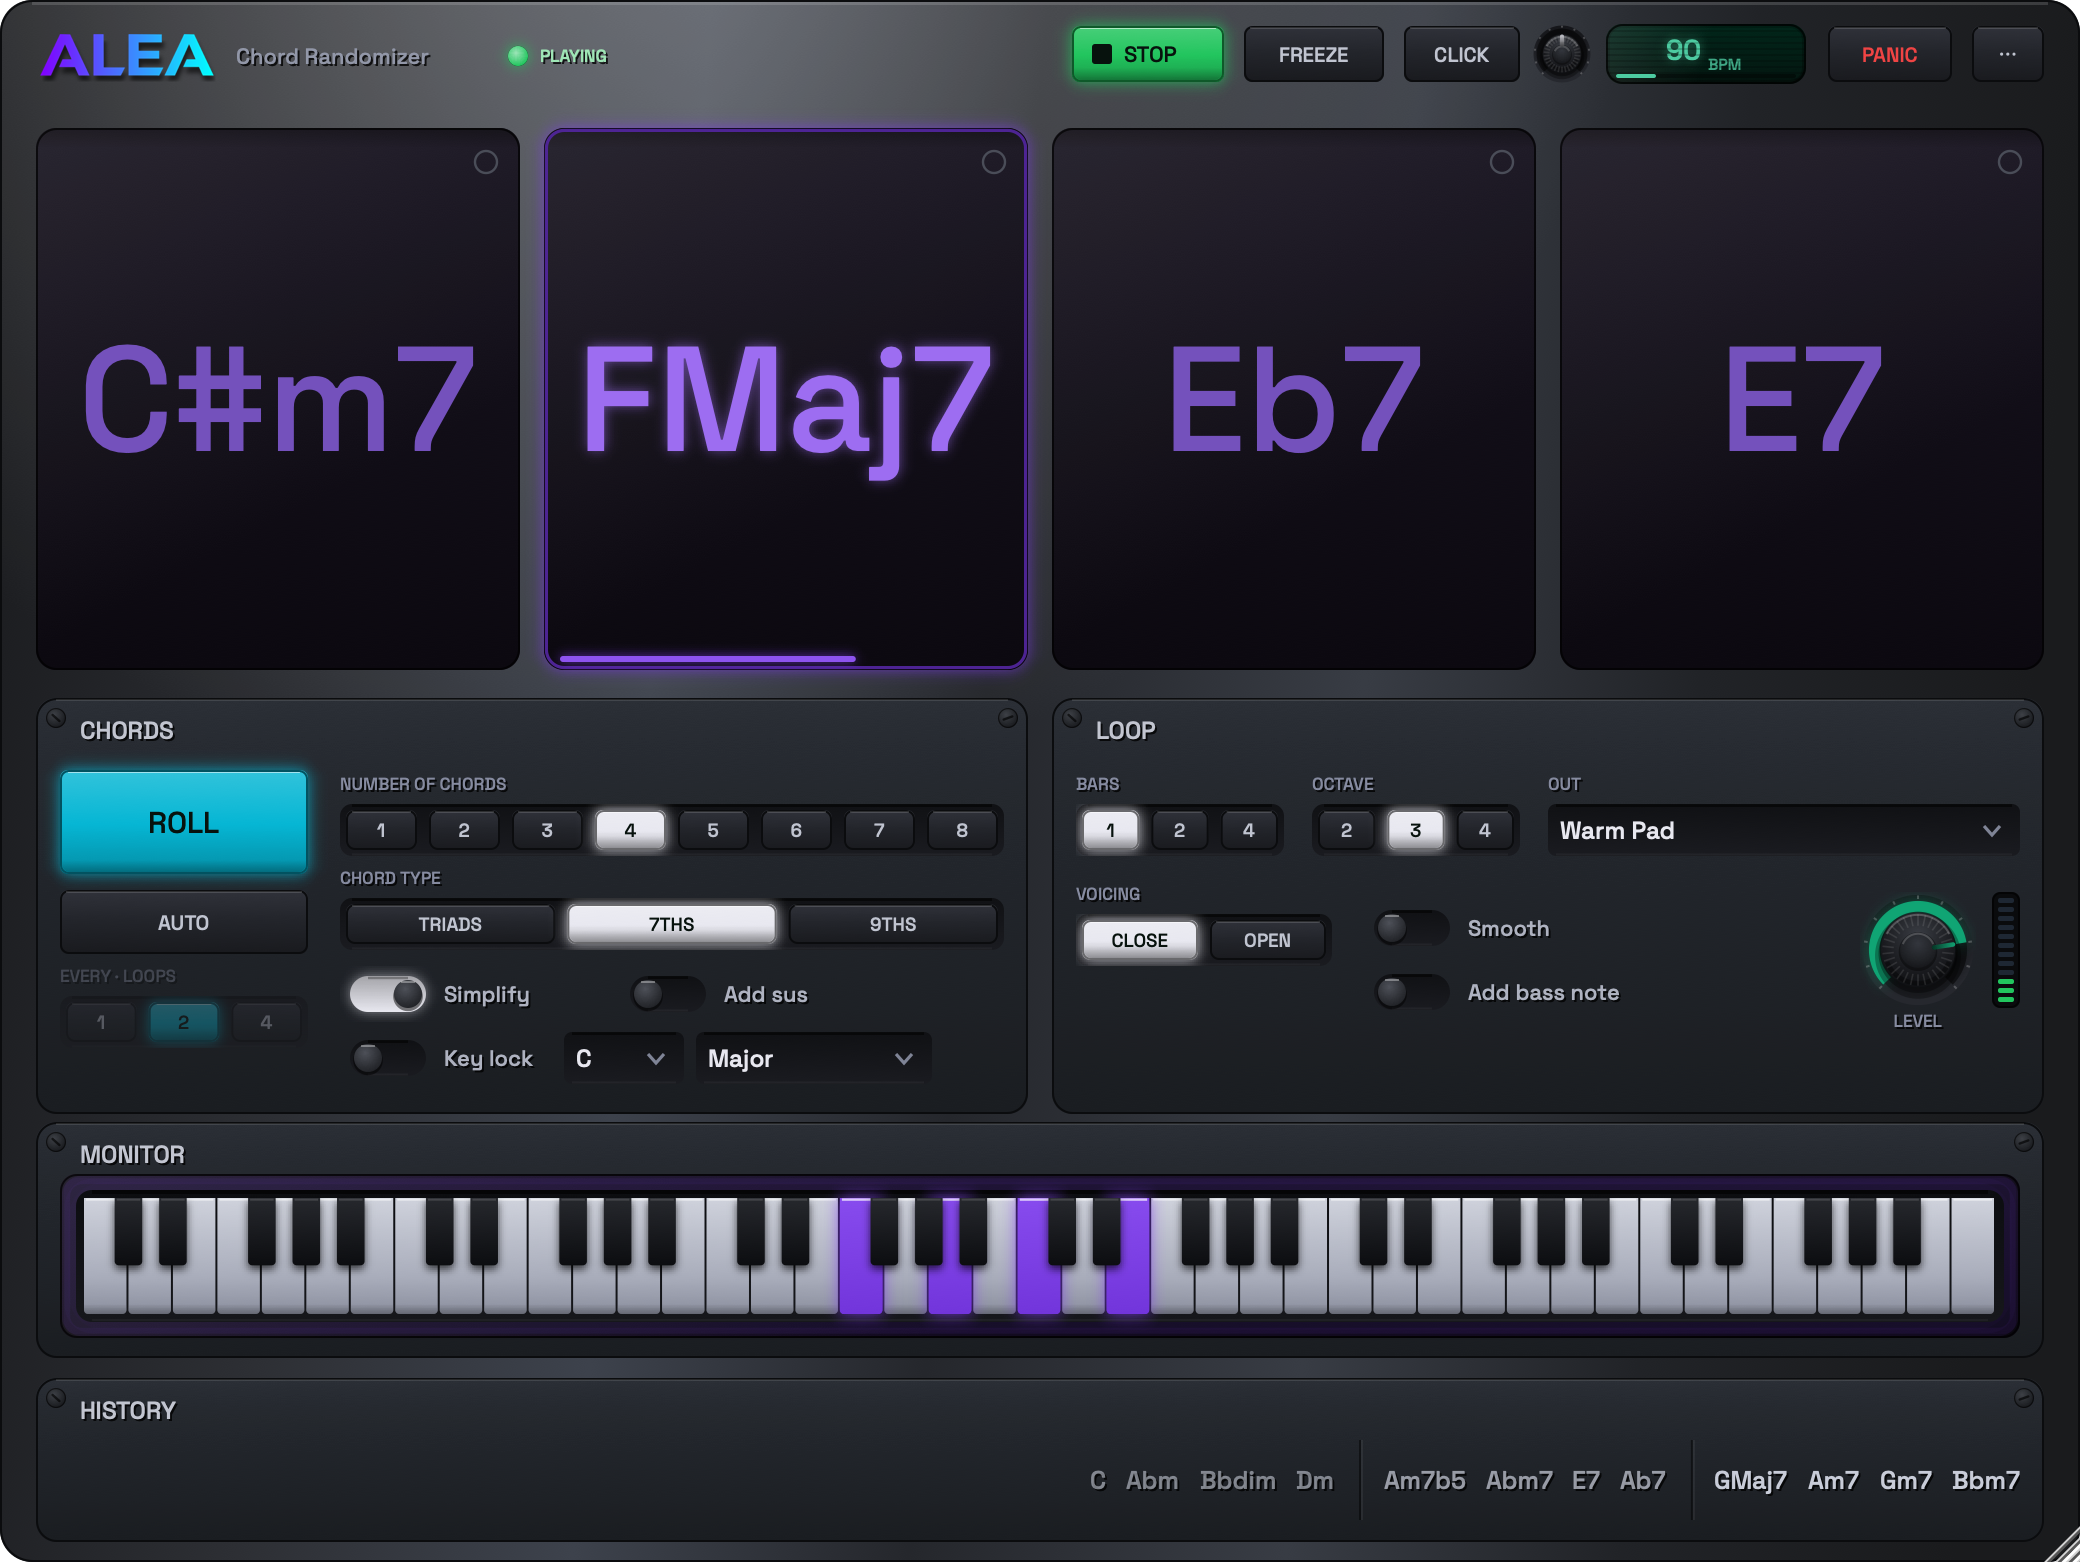
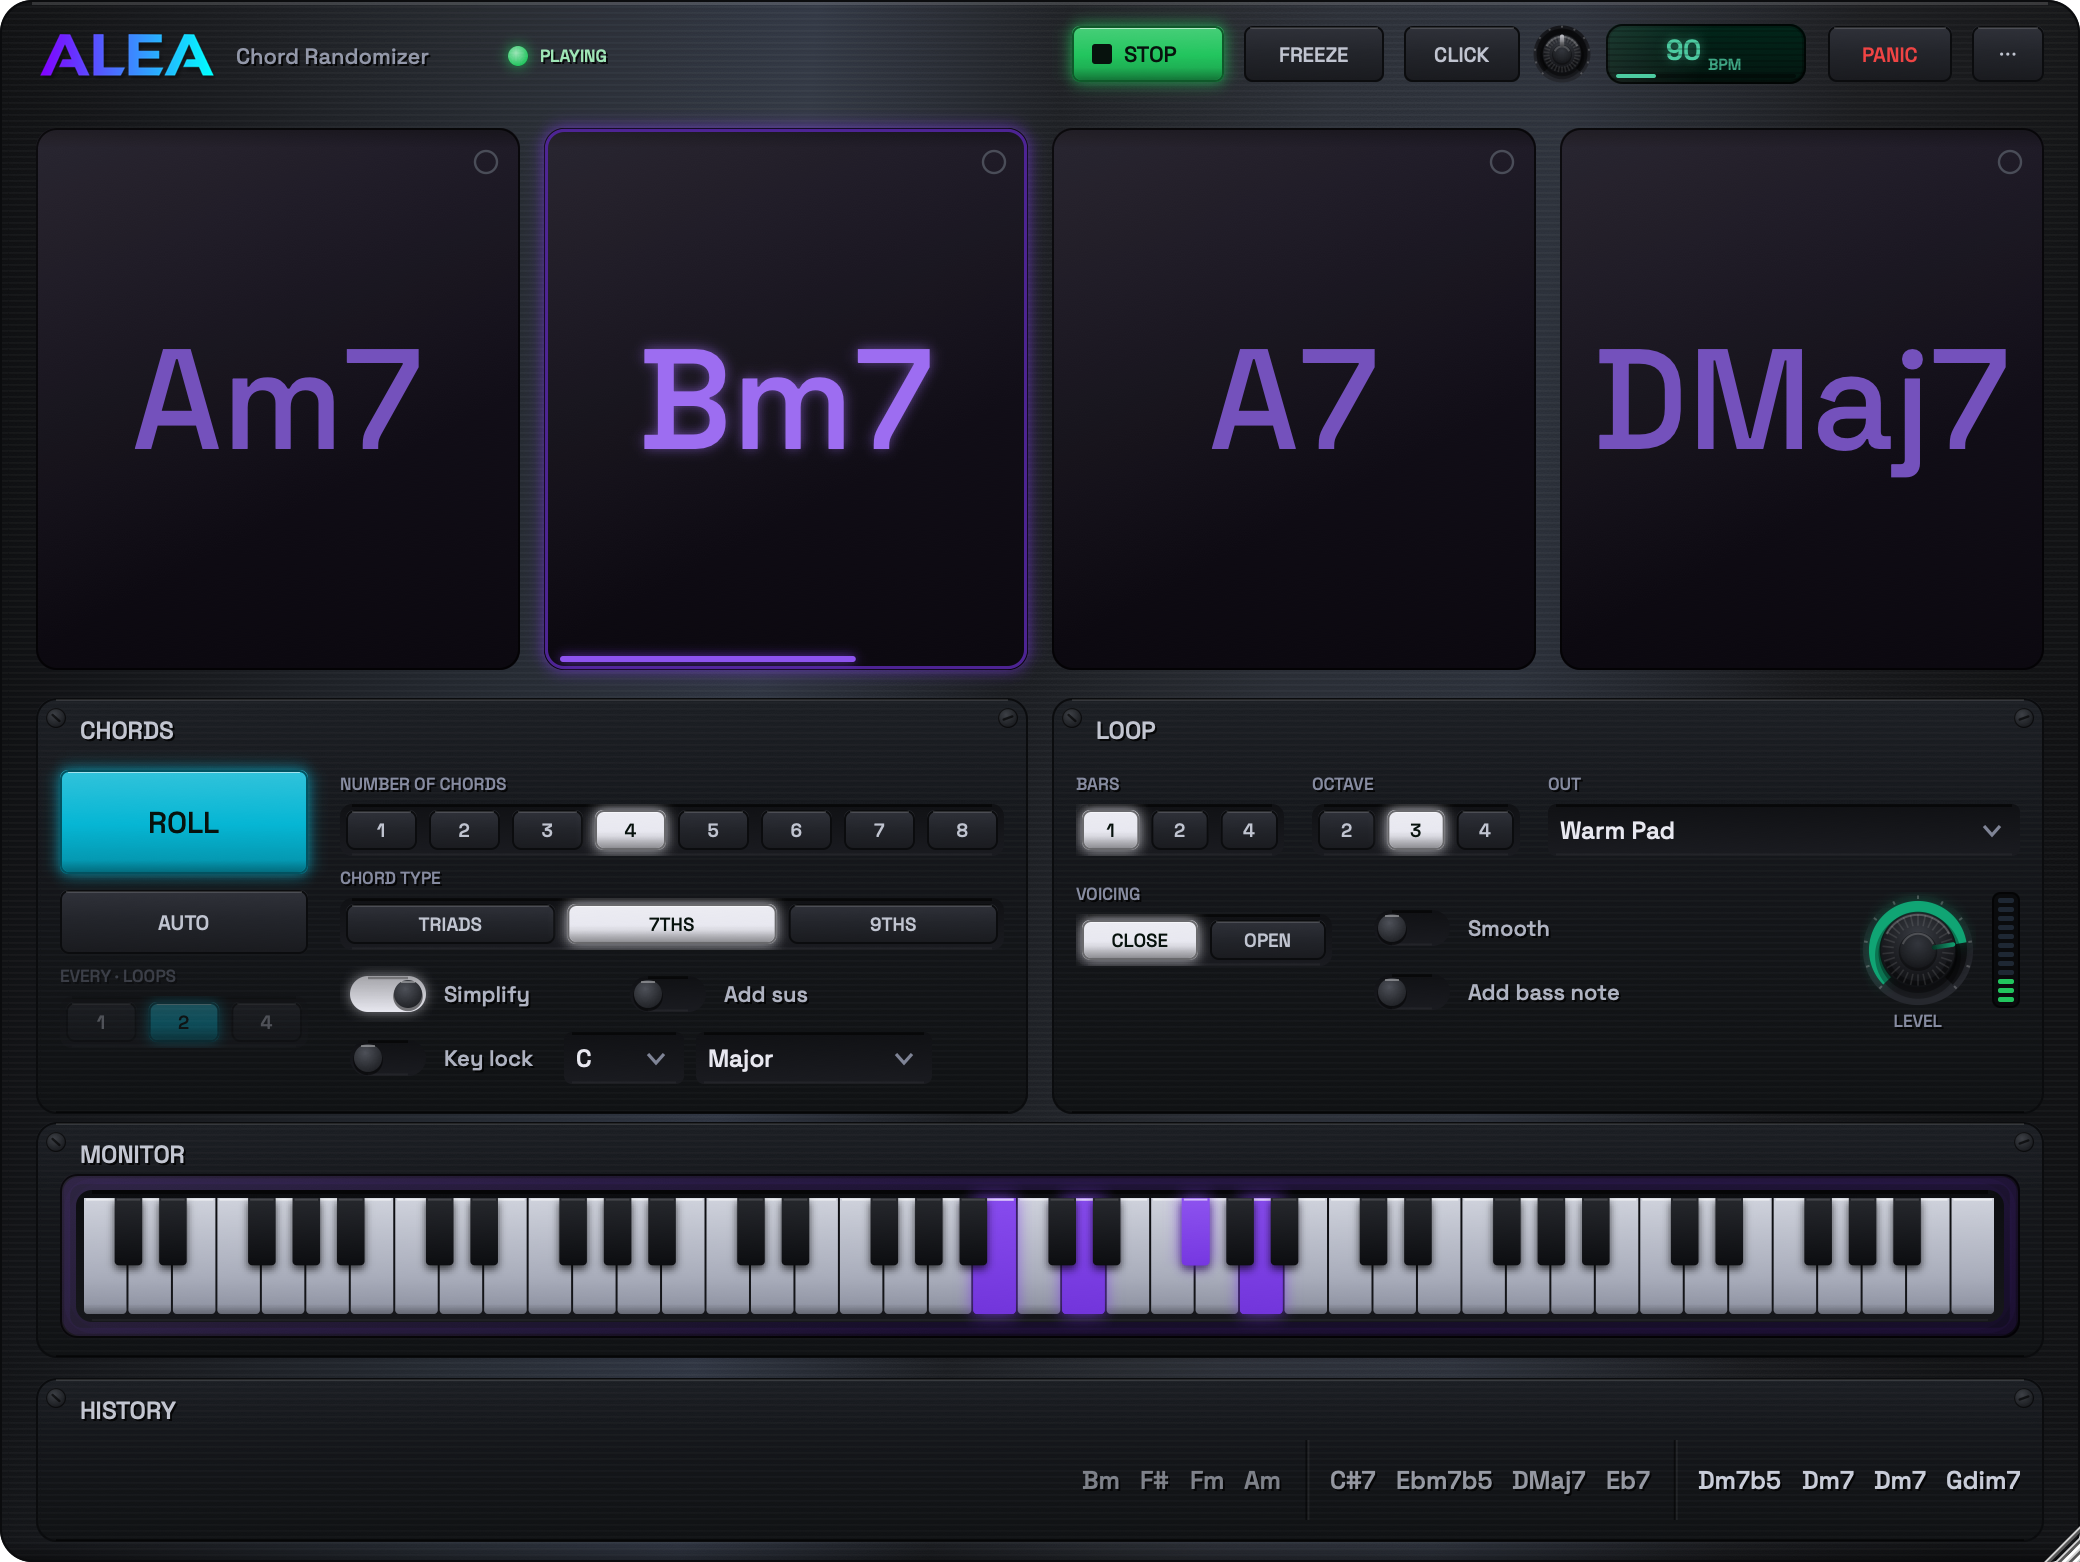
Metal finish copied from the UPDATED handoff: matte gunmetal (QA round 14)
Yuval replaced the handoff with new baked finish values and the old
port was 'nothing like' them. Copied stop-for-stop: metal-l 0.5 (a 35%
black overlay, premultiplied into every gradient stop - dark matte
body), sheen 0.1 (specular nearly off), NEW grain 0.4 (fine spun-metal
micro-texture, baked into a tiled 3px strip image), NEW reflect 0.2
(clearcoat environment light: a cool bounce from bottom-right, a
top-right glint, a soft sweep wash, sky/ground vertical), richer
9-stop 97deg banding, bottom inner shadow. Plates: the new vertical
3-stop + grain + top-lit reflection.

Fix along the way: mixing ScopedSaveState with a manual restoreState()
double-popped the Graphics stack and nuked the editor's transform -
the whole UI collapsed to 1x in a corner. Scopes only, never both.

diff --git a/Source/Hardware.cpp b/Source/Hardware.cpp
@@ -152,48 +152,134 @@ namespace hw
         return (float) b.getProperties().getWithDefault ("litAmt", b.getToggleState() ? 1.0f : 0.0f);
     }
 
+    // The fine spun-metal micro-grain (--grain): hairline strokes that catch
+    // light, baked once into a tiny tile and tiled across the metal.
+    static const juce::Image& grainTile (bool isPlate)
+    {
+        static juce::Image face, plate;
+        auto& img = isPlate ? plate : face;
+        if (! img.isValid())
+        {
+            const float wA = isPlate ? 0.0064f : 0.0088f;   // white stroke alpha
+            const float bA = isPlate ? 0.0088f : 0.012f;    // dark stroke alpha
+            img = juce::Image (juce::Image::ARGB, 4, 3, true);
+            juce::Graphics ig (img);
+            ig.setColour (juce::Colours::white.withAlpha (wA * 3.0f)); // 3x: the tile rows are 1px, the CSS strokes 0.5px
+            ig.fillRect (0, 0, 4, 1);
+            ig.setColour (juce::Colours::black.withAlpha (bA * 3.0f));
+            ig.fillRect (0, 1, 4, 1);
+        }
+        return img;
+    }
+
     void brushedMetal (juce::Graphics& g, juce::Rectangle<float> r, float radius, bool isPlate)
     {
+        // The July 10 handoff's BAKED matte finish: metal-l 0.5 (a 35% black
+        // overlay, premultiplied into every stop below), sheen 0.1 (near-
+        // matte), grain 0.4 (fine spun metal), reflect 0.2 (a whisper of
+        // clearcoat environment light). Copied stop-for-stop.
+        juce::Path clip;
+        clip.addRoundedRectangle (r, radius);
+
         if (isPlate)
         {
-            // Flat satin vertical base (hsl(220 12% 17->12%)), hairline seam,
-            // top inner highlight - no grain.
-            juce::ColourGradient grad (juce::Colour (0xff262a31), r.getX(), r.getY(),
-                                       juce::Colour (0xff1b1e22), r.getX(), r.getBottom(), false);
+            // Plate: vertical hsl(220 13% 18 -> 12% 11) x0.65.
+            juce::ColourGradient grad (juce::Colour (0xff1a1d22), r.getX(), r.getY(),
+                                       juce::Colour (0xff101214), r.getX(), r.getBottom(), false);
+            grad.addColour (0.46, juce::Colour (0xff14161a));
             g.setGradientFill (grad);
             g.fillRoundedRectangle (r, radius);
-            // A whisper of top-lit shading (~2%) - just enough to read as a
-            // slightly raised, convex plate rather than a flat fill.
-            juce::ColourGradient depth (juce::Colours::white.withAlpha (0.022f), r.getX(), r.getY(),
-                                        juce::Colours::black.withAlpha (0.022f), r.getX(), r.getBottom(), false);
-            depth.addColour (0.5, juce::Colours::transparentBlack);
-            g.setGradientFill (depth);
-            g.fillRoundedRectangle (r, radius);
+        }
+        if (isPlate)
+        {
+            juce::Graphics::ScopedSaveState ss (g);
+            g.reduceClipRegion (clip);
+            g.setTiledImageFill (grainTile (true), 0, 0, 1.0f);
+            g.fillRect (r);
+            // Soft top-lit reflection (178deg, reflect 0.2).
+            juce::ColourGradient refl (juce::Colours::white.withAlpha (0.010f), r.getX(), r.getY(),
+                                       juce::Colours::transparentWhite, r.getX(), r.getY() + r.getHeight() * 0.30f, false);
+            g.setGradientFill (refl);
+            g.fillRect (r.withHeight (r.getHeight() * 0.30f));
+        }
+        if (isPlate)
+        {
             g.setColour (metalLine);
             g.drawRoundedRectangle (r.reduced (0.5f), radius, 1.0f);
             g.setColour (juce::Colours::white.withAlpha (0.11f));
             g.drawLine (r.getX() + radius, r.getY() + 1.0f, r.getRight() - radius, r.getY() + 1.0f, 1.0f);
+            g.setColour (juce::Colours::black.withAlpha (0.5f));
+            g.drawLine (r.getX() + radius, r.getBottom() - 1.0f, r.getRight() - radius, r.getBottom() - 1.0f, 1.0f);
         }
         else
         {
-            // Raised slab: the 97deg anisotropic sheen sweep, stops copied
-            // 1:1 from the handoff (hsl 220-hue bands 11%..27% lightness).
-            juce::ColourGradient grad (juce::Colour (0xff1a1b1e), r.getX(), r.getY(),
-                                       juce::Colour (0xff1a1b1d), r.getRight(), r.getY() + r.getHeight() * 0.12f, false);
-            grad.addColour (0.18, juce::Colour (0xff2d2f34));
-            grad.addColour (0.34, juce::Colour (0xff3d424c)); // sheen peak
-            grad.addColour (0.50, juce::Colour (0xff25272c));
-            grad.addColour (0.68, juce::Colour (0xff383c44));
-            grad.addColour (0.84, juce::Colour (0xff212327));
+            // Faceplate: the 97deg anisotropic sweep, nine stops.
+            juce::ColourGradient grad (juce::Colour (0xff0d0e10), r.getX(), r.getY(),
+                                       juce::Colour (0xff0f1012), r.getRight(), r.getY() + r.getHeight() * 0.12f, false);
+            grad.addColour (0.13, juce::Colour (0xff191b1f));
+            grad.addColour (0.27, juce::Colour (0xff262b33));
+            grad.addColour (0.39, juce::Colour (0xff2f3542));
+            grad.addColour (0.51, juce::Colour (0xff191b1f));
+            grad.addColour (0.64, juce::Colour (0xff272b33));
+            grad.addColour (0.75, juce::Colour (0xff2a2f39));
+            grad.addColour (0.89, juce::Colour (0xff17181b));
             g.setGradientFill (grad);
             g.fillRoundedRectangle (r, radius);
-            // Specular: radial-gradient(120% 75% at 30% -15%, white .16*sheen, transparent 42%).
-            juce::ColourGradient spec (juce::Colours::white.withAlpha (0.16f * kSheen),
+        }
+        if (! isPlate)
+        {
+            juce::Graphics::ScopedSaveState ss (g);
+            g.reduceClipRegion (clip);
+            g.setTiledImageFill (grainTile (false), 0, 0, 1.0f);
+            g.fillRect (r);
+
+            // Specular (sheen 0.1 - nearly matte): a faint top-left radial.
+            juce::ColourGradient spec (juce::Colours::white.withAlpha (0.016f),
                                        r.getX() + r.getWidth() * 0.30f, r.getY() - r.getHeight() * 0.15f,
                                        juce::Colours::transparentWhite,
-                                       r.getX() + r.getWidth() * 0.30f + r.getWidth() * 0.50f, r.getY() - r.getHeight() * 0.15f, true);
+                                       r.getX() + r.getWidth() * 0.80f, r.getY() - r.getHeight() * 0.15f, true);
             g.setGradientFill (spec);
-            g.fillRoundedRectangle (r, radius);
+            g.fillRect (r);
+
+            // Clearcoat environment reflection (reflect 0.2) - a second cool
+            // light source, additive-quiet:
+            //   cool fill bouncing up from bottom-right
+            juce::ColourGradient cool (juce::Colour (0xffb0c6ec).withAlpha (0.018f),
+                                       r.getX() + r.getWidth() * 0.88f, r.getY() + r.getHeight() * 1.18f,
+                                       juce::Colours::transparentWhite,
+                                       r.getX() + r.getWidth() * 0.30f, r.getY() + r.getHeight() * 0.55f, true);
+            g.setGradientFill (cool);
+            g.fillRect (r);
+            //   top-right corner glint
+            juce::ColourGradient glint (juce::Colours::white.withAlpha (0.020f),
+                                        r.getRight(), r.getY() - r.getHeight() * 0.08f,
+                                        juce::Colours::transparentWhite,
+                                        r.getX() + r.getWidth() * 0.55f, r.getY() + r.getHeight() * 0.30f, true);
+            g.setGradientFill (glint);
+            g.fillRect (r);
+            //   broad clearcoat wash along the sweep
+            juce::ColourGradient wash (juce::Colours::transparentWhite, r.getX() + r.getWidth() * 0.30f, r.getY(),
+                                       juce::Colours::transparentWhite, r.getX() + r.getWidth() * 0.90f, r.getY(), false);
+            wash.addColour (0.42, juce::Colours::white.withAlpha (0.010f));
+            wash.addColour (0.70, juce::Colours::white.withAlpha (0.004f));
+            g.setGradientFill (wash);
+            g.fillRect (r);
+            //   vertical: bright sky at the top, faint ground bounce below
+            juce::ColourGradient sky (juce::Colours::white.withAlpha (0.011f), r.getX(), r.getY(),
+                                      juce::Colour (0xffced8ee).withAlpha (0.0044f), r.getX(), r.getBottom(), false);
+            sky.addColour (0.20, juce::Colours::transparentWhite);
+            sky.addColour (0.80, juce::Colours::transparentWhite);
+            g.setGradientFill (sky);
+            g.fillRect (r);
+
+            // Bottom inner shadow (inset 0 -3px 10px black .75).
+            juce::ColourGradient bot (juce::Colours::transparentBlack, r.getX(), r.getBottom() - 10.0f,
+                                      juce::Colours::black.withAlpha (0.40f), r.getX(), r.getBottom(), false);
+            g.setGradientFill (bot);
+            g.fillRect (r.withTop (r.getBottom() - 10.0f));
+        }
+        if (! isPlate)
+        {
             // Raised edge: bright top seam, dark seam all round.
             g.setColour (juce::Colours::white.withAlpha (0.14f));
             g.drawLine (r.getX() + radius, r.getY() + 1.5f, r.getRight() - radius, r.getY() + 1.5f, 2.0f);